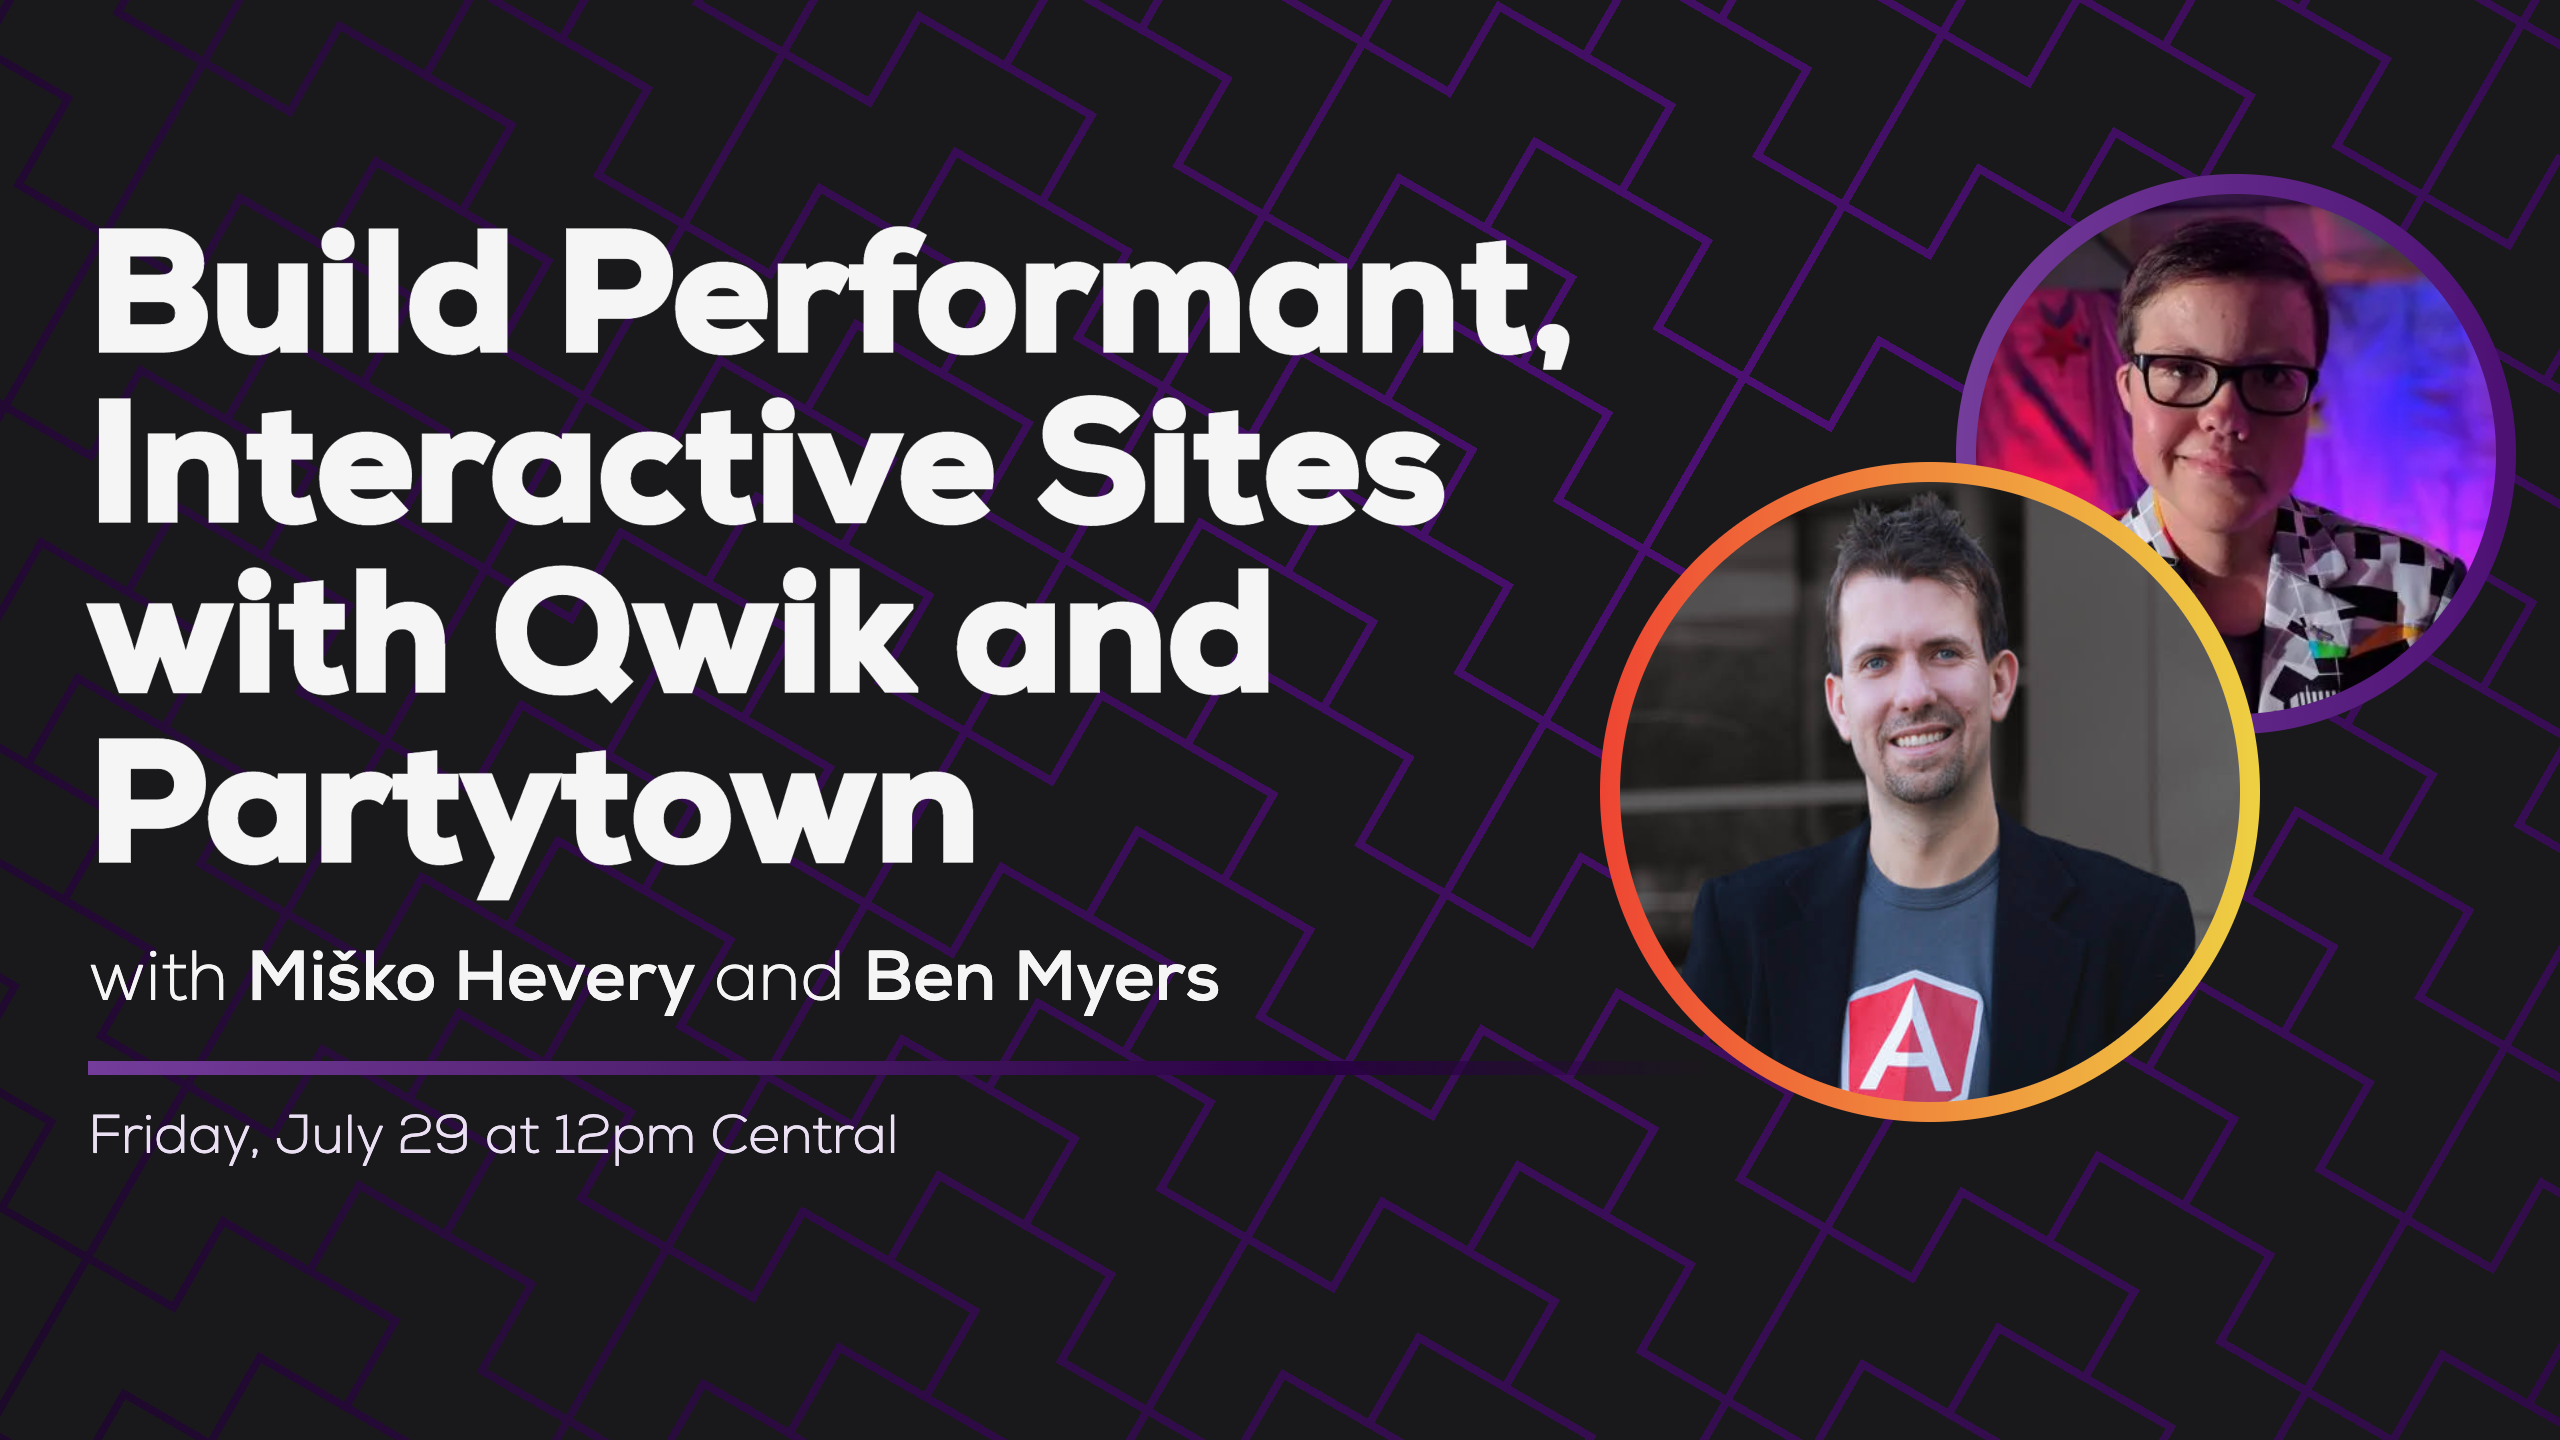
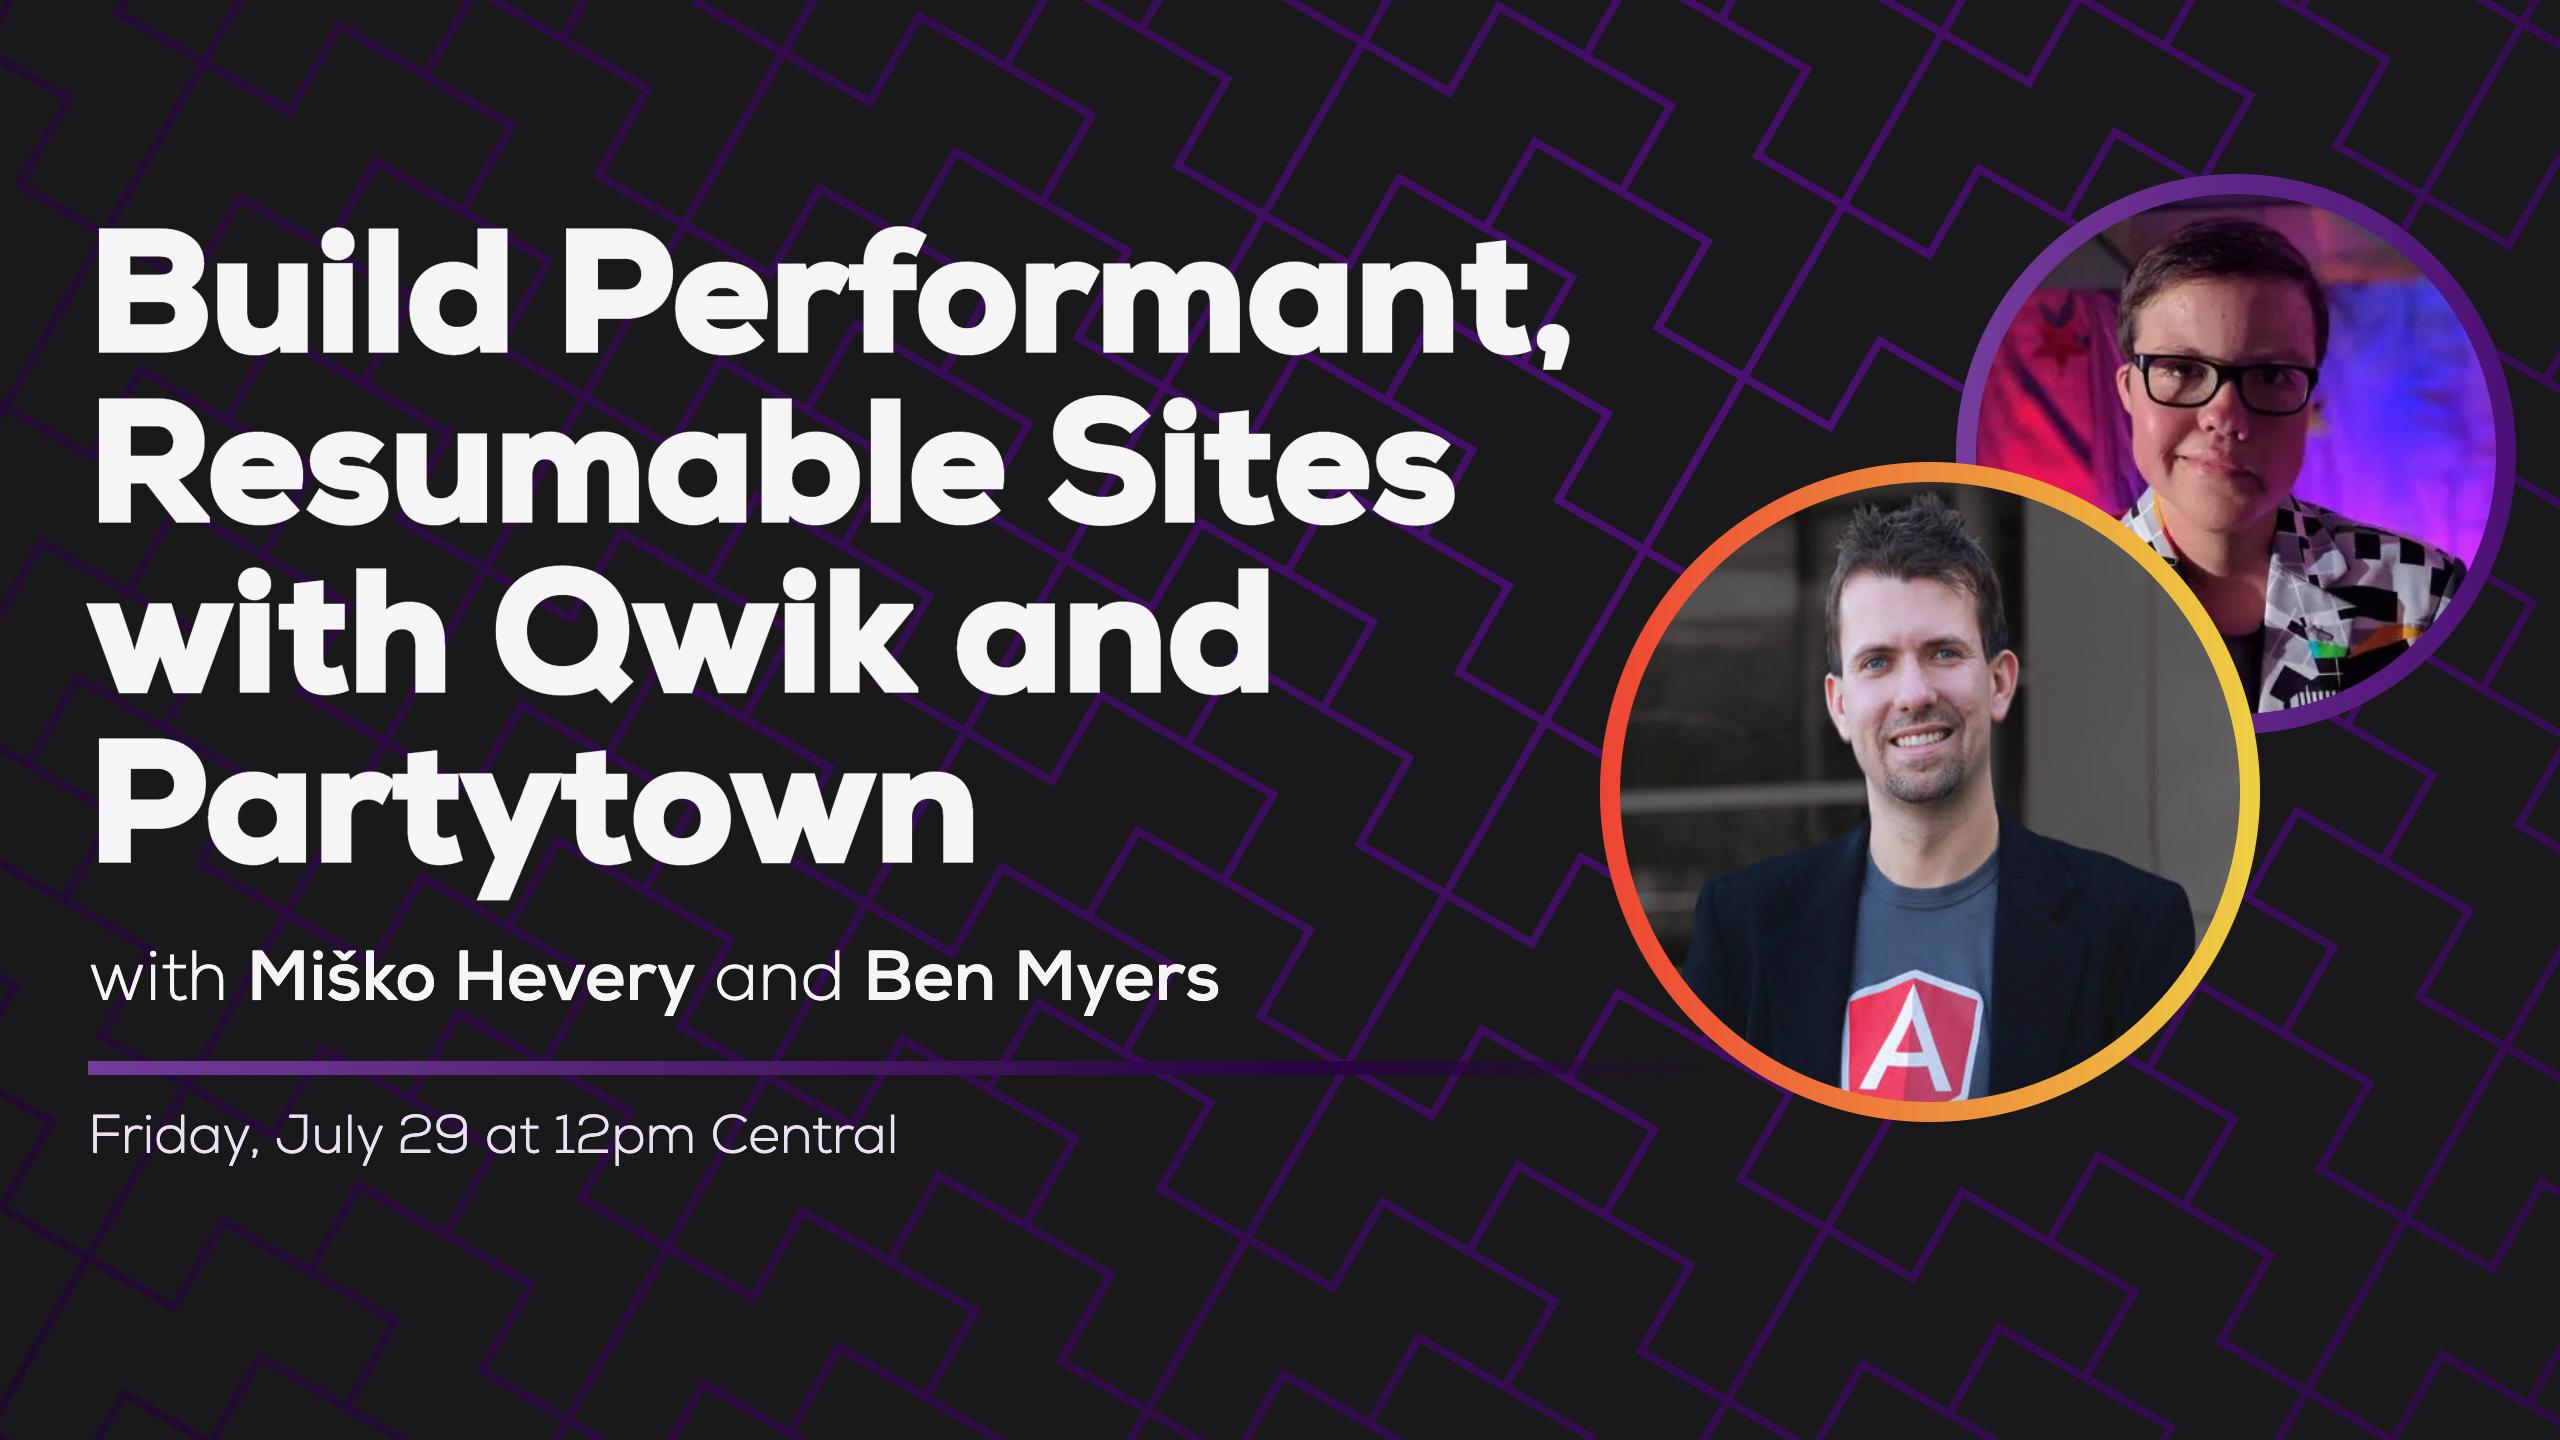
Rethumb Qwik

Changed region(s): [[0.0312, 0.2812, 0.5625, 0.375]]

diff --git a/src/thumbnail.html b/src/thumbnail.html
@@ -4,7 +4,7 @@ guest: Miško Hevery
 timestamp: 'Friday, July 29 at 12pm Central'
 title:
   - Build Performant,
-  - Interactive Sites
+  - Resumable Sites
   - with Qwik and
   - Partytown
 ---
